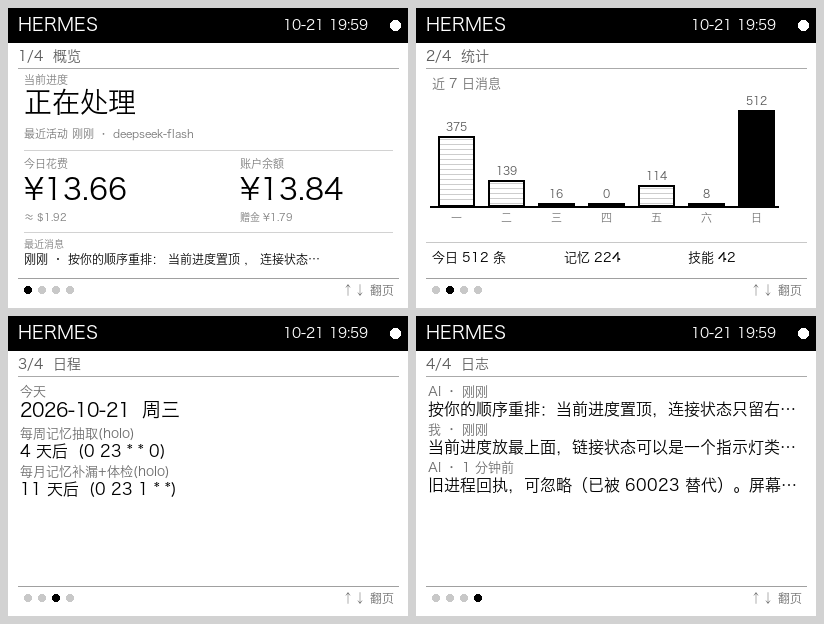
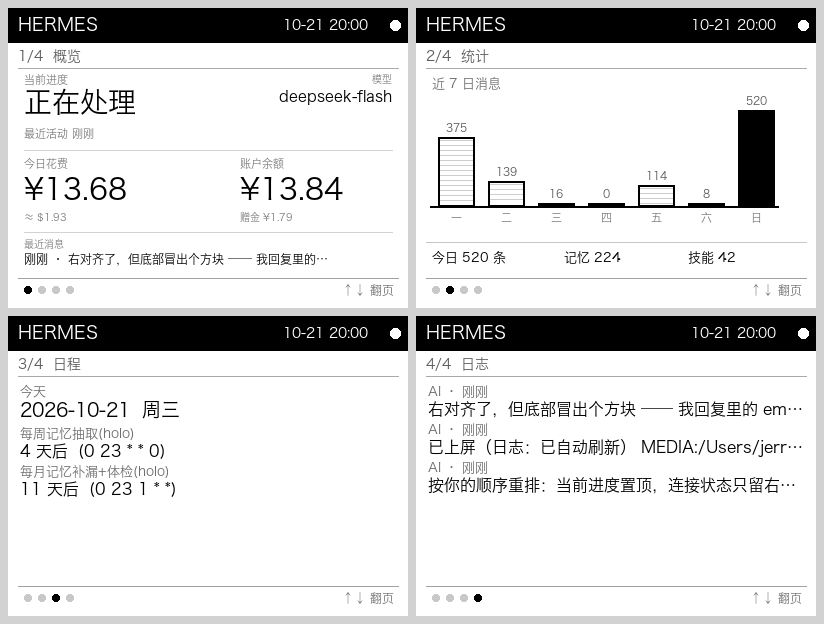
polish: 模型右对齐至进度带；清洗 emoji/Markdown 避免方块字

diff --git a/agent_status.py b/agent_status.py
@@ -274,11 +274,16 @@ def render(out, page=0):
         d.text((16, 66), "当前进度", font=font(11), fill=125)
         prog = "正在处理" if active else "空闲 · 等待指令"
         d.text((16, 80), prog, font=font(28), fill=0)
-        mdl = model_name()
-        while d.textlength(mdl, font=font(11, bold=False)) > 120 and len(mdl) > 4:
-            mdl = mdl[:-2] + "…"
-        sub = (f"最近活动 {ago(m['ts'])}" if m else "暂无活动") + f" · {mdl}"
+        sub = f"最近活动 {ago(m['ts'])}" if m else "暂无活动"
         d.text((16, 120), sub, font=font(11, bold=False), fill=120)
+
+        # 右侧：模型（右对齐，与"当前进度"同一视觉带）
+        mdl = model_name()
+        while d.textlength(mdl, font=font(15)) > 150 and len(mdl) > 4:
+            mdl = mdl[:-2] + "…"
+        d.text((W - 16 - d.textlength("模型", font=font(10, bold=False)), 66),
+               "模型", font=font(10, bold=False), fill=125)
+        d.text((W - 16 - d.textlength(mdl, font=font(15)), 80), mdl, font=font(15), fill=0)
 
         d.line([16, 142, W - 16, 142], fill=210)
 
@@ -297,9 +302,8 @@ def render(out, page=0):
         # 最近消息（最下面）
         d.text((16, 231), "最近消息", font=font(10, bold=False), fill=125)
         if m:
-            body = re.sub(r"[*_`#>\s]+", " ", m["content"] or "").strip()
-            body = re.sub(r"^[-\s]+", "", body)[:22]
-            d.text((16, 245), f"{ago(m['ts'])} · {body}…", font=font(12), fill=0)
+            body = clean_text(m["content"], 22)
+            d.text((16, 245), f"{ago(m['ts'])} · {body}", font=font(12), fill=0)
         else:
             d.text((16, 245), "暂无记录", font=font(12), fill=110)
 
@@ -345,9 +349,7 @@ def render(out, page=0):
     else:
         for m in recent_msgs(3):
             role = {"user": "我", "assistant": "AI", "tool": "工具"}.get(m["role"], m["role"])
-            txt = re.sub(r"\s+", " ", m["content"] or "").strip()
-            txt = re.sub(r"[*_`#>]+", "", txt).strip()      # 去掉 markdown 符号
-            txt = re.sub(r"^[-\s]+", "", txt)
+            txt = clean_text(m["content"], 46)
             if len(txt) > 46:
                 txt = txt[:46] + "…"
             line(f"{role} · {ago(m['ts'])}", txt)
@@ -373,6 +375,16 @@ def render(out, page=0):
     os.replace(tmp, out)             # 原子替换：watch 不会读到半张图
     _last_png = data
     return out
+
+def clean_text(s, limit=None):
+    """去掉 markdown 符号与字体不支持的 emoji，避免出现方块"""
+    s = re.sub(r"[*_`#>]+", "", s or "")
+    s = re.sub(r"[\U0001F000-\U0001FAFF\U00002600-\U000027BF\U0001F1E6-\U0001F1FF\uFE0F\u200D]", "", s)
+    s = re.sub(r"\s+", " ", s).strip()
+    s = re.sub(r"^[-\s]+", "", s)
+    if limit and len(s) > limit:
+        s = s[:limit] + "…"
+    return s
 
 def read_page():
     # watch.rs 写纯文本页码（零依赖）；兼容旧的 ui_state.json
